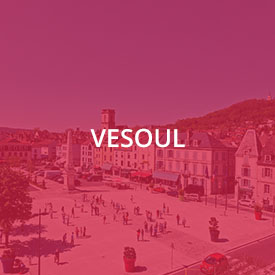
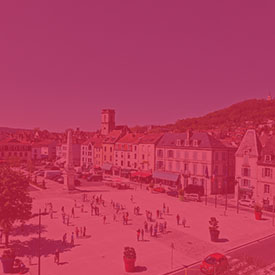
partie 2 terminé

Changed region(s): [[0.32, 0.4655, 0.6691, 0.5527]]

diff --git a/index.html b/index.html
@@ -224,7 +224,7 @@
       <div id="header-portfolio">
         <div class="container">
           <div class="row">
-            <div class="col-12 col-sm-12 col-md-12 col-lg-12 col-xl-12" style="border:1px solid red">
+            <div class="col-12 col-sm-12 col-md-12 col-lg-12 col-xl-12" style="border:1px solid red;">
               <h3 id="title-pro" class="text-white text-center">Nos formation Access Code School permettent d'obtenir un
                 <b>Titre professionnel de Niveau III </b>de Développeur logiciel ou de Designer Web.</h3>
   
@@ -233,8 +233,18 @@
           </div>
         </div>
       <div class="portfolio">
+          
           <div class="container gallerie">
-            <div class="text-portfolio"><h3>Nos centres de formation</h3></div>
+            <div class="text-portfolio" ><h3 id="title-portfolio">Nos centres de formation</h3>
+              </div>
+
+              <div id="exemple">
+              <div class="border-wrap-r">
+                  <div class="soulign-metier-r">
+                  </div>
+                  </div>
+                </div>
+            
               <div class="row">
                   <div class="col-xs-3">
                       <div class="img1">
@@ -254,6 +264,7 @@
                           <img class="image" src="assets/img/3-hover.jpg" alt="Alt text" /> 
                           <div class="normal">
                            <div class="text"> <img class="image" src="assets/img/3-hover.jpg" alt="Alt text" /> </div>
+                           <div class="centered">vesoul</div>
                           </div>
                           <div class="hover">
                            <img class="image" src="assets/img/3.jpg"  alt="Alt text hover" />
@@ -307,10 +318,15 @@
         <div class="temoignage">
           <div class="container">
             <div class="bloc-titreimg">
-             <div class="titre-temoign"><h3>témoignages</h3></div> 
+             <div class="titre-temoign"><h3>témoignages</h3>
+             <div class="border-wrap">
+              <div class="soulign-metier">
+              </div>
+              </div>
+             
+            </div> 
             
-            
-             <div><img src="./assets/img/quote.png"
+            <div><img src="./assets/img/quote.png"
               class=" quote"
             /></div>
       
@@ -344,17 +360,21 @@
 
       <div id="contact">
         <div class="container ">
-          <div class="titre-contact"><h3>contact</h3></div>
-
+          <div  class="titre-contact"><h3">contact</h3>
+          <div class="border-wrap-r">
+            <div class="soulign-metier-r">
+            </div>
+            </div>
+          </div>
           <div class="text-center">
             <div class="row">
               <div class="col-6 col-sm-6 col-md-4 col-lg-5 col-xl-6">
-                <div class="row">
+                <div class="row ">
                   <div class="col-6 col-sm-6 col-md-6 col-lg-6 col-xl-6">
-                    <input type="text" id="nom" placeholder="NOM*" style="float:left" />
+                    <input type="text" id="nom" placeholder="NOM*" tabindex="1" style="float:left;padding:2%" />
                   </div>
                   <div class="col-6 col-sm-6 col-md-6 col-lg-6 col-xl-6">
-                    <input type="text" id="prenom" placeholder="PRENOM*" />
+                    <input type="text" id="prenom" placeholder="PRENOM*" style="padding:2%" />
                   </div>
 
                   <div class="col-12 col-sm-12 col-md-12 col-lg-12 col-xl-12">
@@ -362,7 +382,7 @@
                       type="email"
                       id="email"
                       placeholder="EMAIL*"
-                      style="width:100%;padding:0;margin:0"
+                      style=" float:left;padding:1.5%;"
                     />
                   </div>
 
@@ -370,11 +390,11 @@
                     <input
                       type="text"
                       id="codepostal"
-                      placeholder="CODE POSTAL*" style="float:left"
+                      placeholder="CODE POSTAL*" style="float:left; padding:2%"
                     />
                   </div>
                   <div class="col-6 col-sm-6 col-md-6 col-lg-6 col-xl-6">
-                    <input type="text" id="ville" placeholder="VILLE*" />
+                    <input type="text" id="ville" placeholder="VILLE*"style=" padding:2%" />
                   </div>
                 </div>
               </div>
@@ -389,9 +409,9 @@
             </div>
             <div class="row">
               <div class="col-12 col-sm-12 col-md-12col-lg-12 col-xl-12">
-                <label for="msg" style="color:#fff; float:leftpo">MESSAGE*:</label>
+                <label for="msg" style="color:#fff;  padding:2% 0 0 0;float:left">MESSAGE*:</label>
 
-                <textarea class="area-text" id="msg" name="message"></textarea>
+                <textarea class="area-text" id="msg" name="message" ></textarea>
               </div>
             </div>
             <div class="row">

diff --git a/assets/css/style.css b/assets/css/style.css
@@ -15,6 +15,32 @@
   src: url(../font/OpenSans-Light.ttf) format("truetype");
   font-weight: 300;
   }
+  /*style de soulignement*/
+#title-portfolio{
+  padding:5% 0 0 0;
+}
+#exemple{
+  padding:0 0 3% 0;
+}
+  .border-wrap{
+    background: linear-gradient(to right, white, rgba(62, 62, 62, 1));
+    padding:0.1rem;
+    width:150px;
+    }
+    .soulign-metier{
+    background: rgba(62, 62, 62, 1);
+    
+    }
+    .border-wrap-r{
+      background: linear-gradient(to right,rgb(226, 97, 97), white );
+      padding:0.1rem;
+      width:150px;
+      }
+      .soulign-metier-r{
+        background:  rgb(226, 97, 97);
+      
+     
+      }
 
   h3 {
     padding: 5%;
@@ -220,12 +246,15 @@
   padding:5px 5px;
 }
 .gallerie{
-  padding-bottom:70px;
+  padding-bottom:60px;
+  padding-top:2%;
+
 }
 .text-portfolio{
 
   color:black;
   text-transform:uppercase;
+
 }
 /*style temoignage*/
 .temoign-title{
@@ -243,16 +272,29 @@
 
 .bloc-titreimg {
   
-  padding-bottom:10%;
+  padding-bottom:8%;
+ 
+ 
   }
 
   .titre-temoign{
     color:#fff;
   text-transform:uppercase;
-  text-decoration-line:underline;
   margin-left:auto;
   margin-right:auto;
-float:left;
+  float:left;
+  }
+  .centered {
+    position: absolute;
+    top: 50%;
+    left: 50%;
+    transform: translate(-50%, -50%);
+    text-transform: uppercase;
+    color:#fff;
+    font-size:25px;
+    font-family: "OpenSans; SemiBold";
+  
+  
   }
   /* image quote container temoignage*/
 .quote{
@@ -285,30 +327,39 @@ padding:2%;
 /* contact */
 #contact{
 background-color:#a00323;
-height:500px;
+height:600px;
 
 
 }
 .titre-contact{
 color:#fff;
 text-transform:uppercase;
-text-decoration:underline;
-padding-bottom:3%;
-padding-top:3%
+float:left;
+padding-top:3%;
+
+
+
+}
+.text-center{
+  padding-top:10%;
 }
 
 .center-formulaire{
   text-align:center;
   
 }
+
 input{
-  border:0;
+
+border:0;
   border-bottom:1px solid #fff;
   background-color:#a00323;
   color:#fff;
+ 
 }
 #email{
-  width: 80%;
+  width: 94%;
+  
 }
 label{
   float:left;
@@ -317,11 +368,15 @@ label{
   background-color:#a00323;
   width:100%;
 padding-bottom:100px;
+color:#fff;
 }
 .bouton{
   background-color:#fff;
   color:#a00323;
-  margin-top:3%;
+  margin-top:1%;
+  width:150px;
+  margin-bottom:70px;;
+  margin-top:22px;
  
 }
 ::placeholder { /* Chrome, Firefox, Opera, Safari 10.1+ */
